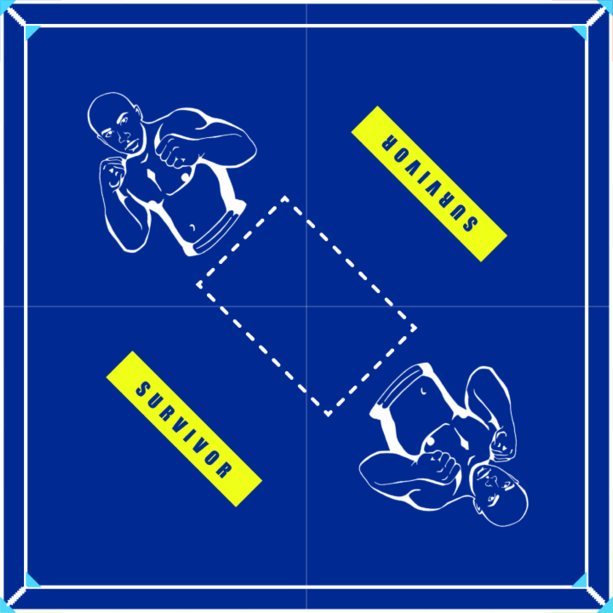
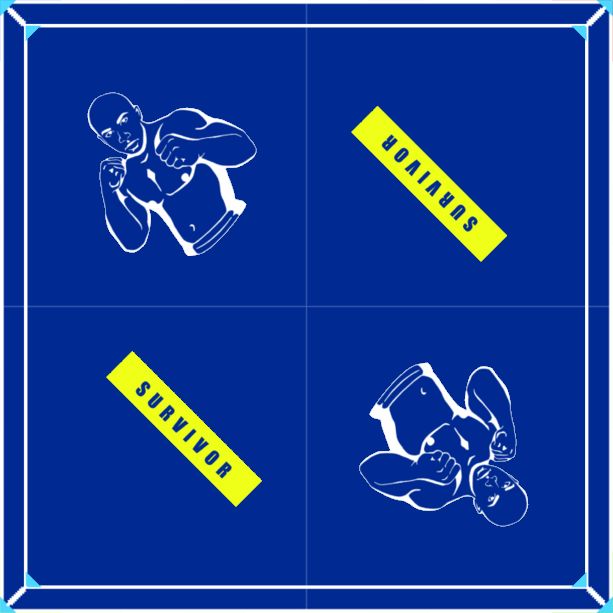
Changed ring picture, centered players and changed inconsistencies

diff --git a/Game.py b/Game.py
@@ -8,11 +8,10 @@ WHITE = (255,255,255)
 BLACK = (0,0,0)
 GRAY = (100,100,100)
 LIGHTGRAY = (200,200,200)
-RED = (200,0,0)
-GREEN = (20,200,10)
-BLUE = (0,0,200)
-LIGHTBLUE = (100,100,200)
-YELLOW = (225,200,20)
+RED = (200,80,80)
+GREEN = (80,200,80)
+BLUE = (80,80,200)
+YELLOW = (200,200,80)
 PINK = (200,100,100)
 
 # surface_sz = width = height = 480   # Desired physical surface size, in pixels.
@@ -71,21 +70,27 @@ def game():
     # Create surface of (width, height), and its window.
     main_surface = pygame.display.set_mode((width, height))
 
-    # Set up some data to describe a small rectangle and its color
     # <rect> = (x, y, w, h)
     board = build_board(width,height,unit)
 
-    pimg = pygame.transform.scale(pygame.image.load("assets\\fight_text.png"),(int(unit/2), int(unit/2)))
+    pimg = [
+        pygame.transform.scale(pygame.image.load("assets\\player1.png"),(int(unit/2), int(unit/2))),
+        pygame.transform.scale(pygame.image.load("assets\\player2.png"),(int(unit/2), int(unit/2))),
+        pygame.transform.scale(pygame.image.load("assets\\player3.png"),(int(unit/2), int(unit/2))),
+        pygame.transform.scale(pygame.image.load("assets\\player4.png"),(int(unit/2), int(unit/2)))
+        ]
 
+
+    i = 0
     players = []
     tiles = []
-    i = 0
     for tile in board:
         _tile = [(tile.Position.X,tile.Position.Y,tile.Width,tile.Height),tile.image]
         if tile.Type == "spawn" and i < 4:
-            players.append(Player(100, Point(tile.rect.centerx,tile.rect.centery), 15, Point(0,0)))
+            players.append(Player(100, Point(tile.rect.x+unit/1.4,tile.rect.y+unit/1.4), 15, Point(tile.rect.x+unit/1.4, tile.rect.y+unit/1.4),pimg[i]))
             i += 1
         tiles.append(_tile)
+
     while True:
         ev = pygame.event.poll()    # Look for any event
         if ev.type == pygame.QUIT:  # Window close button clicked?
@@ -98,12 +103,16 @@ def game():
         # We draw everything from scratch on each frame.
         # So first fill everything with the background color
         main_surface.fill(WHITE)
+
+        # Drawing the game's Tiles
         for tile in tiles:
             main_surface.fill(tile[1], tile[0])
-
+        # The big center "tile"
         main_surface.blit(Tile(Point(X+unit*2,unit*2),"ring",None,unit*12,0).image,(X+unit*2,unit*2))
+
+        # Drawing the players on their starting tiles
         for player in players:
-            main_surface.blit(pimg,(player.Position.X,player.Position.Y))
+            main_surface.blit(player.image,(player.Position.X,player.Position.Y))
 
         # Now the surface is ready, tell pygame to display it!
         pygame.display.flip()

diff --git a/Player.py b/Player.py
@@ -2,11 +2,15 @@ from Tile import *
 import random
 
 class Player:
-    def __init__(self, health, position, condition, spawnlocation):
+    def __init__(self, health, position, condition, spawnlocation, texture):
         self.Health = health
-        self.Position = position
         self.Condition = condition
         self.Spawnlocation = spawnlocation #has to be a Point(x,y)
+        self.image = texture
+
+        self.rect = self.image.get_rect()
+
+        self.Position = position
 
     def moveToTile(self,tile):
         self.Position = Point(tile.rect.centerx,tile.rect.centery)
@@ -24,10 +28,10 @@ class Player:
 #Later we should add a function where we can decide how much player we want, and with that we decide how many players we
 #iniate
 
-Player1 = Player(100, Point(0,0), 15, Point(0,0))
-Player2 = Player(100, Point(260,0), 15, Point(260,0))
-Player3 = Player(100, Point(0,260), 15, Point(0,260))
-Player4 = Player(100, Point(260,260), 15, Point(260,260))
+# Player1 = Player(100, Point(0,0), 15, Point(0,0))
+# Player2 = Player(100, Point(260,0), 15, Point(260,0))
+# Player3 = Player(100, Point(0,260), 15, Point(0,260))
+# Player4 = Player(100, Point(260,260), 15, Point(260,260))
 
 
 

diff --git a/Tile.py b/Tile.py
@@ -35,7 +35,7 @@ class Tile:
                     self.Height = size*2
                     self.rect = pygame.Rect(self.Position.X,self.Position.Y,self.Width,self.Height)
             elif type == "ring":
-                self.image = pygame.transform.scale(pygame.image.load("assets\\Boxring.png"),(self.Width,self.Height))
+                self.image = pygame.transform.scale(pygame.image.load("assets\\boxring.png"),(self.Width,self.Height))
                 self.rect = self.image.get_rect()
 
     def __str__(self):
